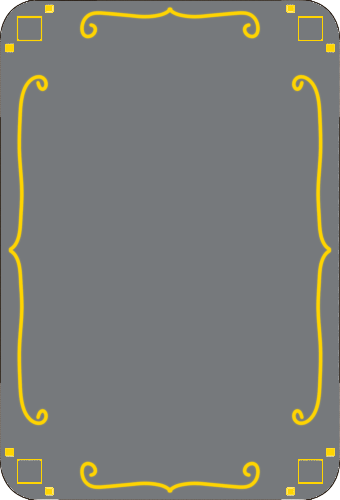
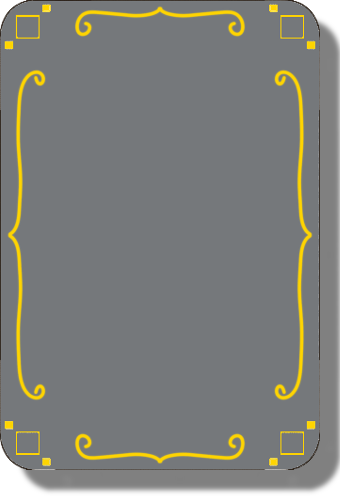
added card shadow

diff --git a/draw.js b/draw.js
@@ -22,21 +22,24 @@ function drawHeroes(){
         ctx.lineWidth = display.battleChooseCharacterBorderW;
         ctx.strokeStyle = display.battleChooseCharacterBorderCol;
         ctx.beginPath();
-        ctx.rect(display.heroXOffset + display.heroSpacing * i + display.cardW * i, y, display.cardW, display.cardH);
+        ctx.rect(display.heroXOffset + display.heroSpacing * i + display.cardW * i, y, display.battleCardBorderW, display.battleCardBorderH);
         ctx.stroke();
       }
       if(game.turnCharacterType == "hero"){
         ctx.lineWidth = display.battleCharacterTurnBorderW;
         ctx.strokeStyle = display.battleCharacterTurnBorderCol;
         ctx.beginPath();
-        ctx.rect(display.heroXOffset + display.heroSpacing * game.playerTurn + display.cardW * game.playerTurn, y, display.cardW, display.cardH);
+        ctx.rect(display.heroXOffset + display.heroSpacing * game.playerTurn + display.cardW * game.playerTurn,
+          y,
+          display.battleCardBorderW,
+          display.battleCardBorderH);
         ctx.stroke();
       }
       if(game.turnCharacterType == "hero" && heroes[i] != heroes[game.playerTurn] && game.selectedAction == "heal"){
         ctx.lineWidth = display.battleCharacterHealBorderW;
         ctx.strokeStyle = display.battleCharacterHealBorderCol;
         ctx.beginPath();
-        ctx.rect(display.heroXOffset + display.heroSpacing * i + display.cardW * i, y, display.cardW, display.cardH);
+        ctx.rect(display.heroXOffset + display.heroSpacing * i + display.cardW * i, y, display.battleCardBorderW, display.cardH);
         ctx.stroke();
       }
     }
@@ -98,14 +101,17 @@ function drawEnemies(){
       ctx.lineWidth = display.battleChooseCharacterBorderW;
       ctx.strokeStyle = display.battleChooseCharacterBorderCol;
       ctx.beginPath();
-      ctx.rect(x, y, display.cardW, display.cardH);
+      ctx.rect(x, y, display.battleCardBorderW, display.battleCardBorderH);
       ctx.stroke();
     }
     if(game.turnCharacterType == "enemy"){
       ctx.lineWidth = display.battleCharacterTurnBorderW;
       ctx.strokeStyle = display.battleCharacterTurnBorderCol;
       ctx.beginPath();
-      ctx.rect(display.heroXOffset + display.heroSpacing * game.enemyTurn + display.cardW * game.enemyTurn, y, display.cardW, display.cardH);
+      ctx.rect(display.heroXOffset + display.heroSpacing * game.enemyTurn + display.cardW * game.enemyTurn,
+      y,
+      display.battleCardBorderW,
+      display.battleCardBorderH);
       ctx.stroke();
     }
     //name
@@ -290,7 +296,7 @@ function drawActionButtons(hero){
   var y = display.ch - display.heroYOffset - display.cardH + display.battleActionButtonYOffset;
   for(var j = 0; j < display.battleActionButtonText.length; j++){
     ctx.fillStyle = display.battleActionButtonCol;
-    ctx.fillRect(x, y + display.battleActionButtonH * j, display.cardW, display.battleActionButtonH);
+    ctx.fillRect(x, y + display.battleActionButtonH * j, display.battleActionButtonW, display.battleActionButtonH);
     ctx.fillStyle = display.battleActionButtonTextCol;
     ctx.font = "" + display.battleActionButtonTextFontSize + "px " + display.font;
     ctx.fillText(display.battleActionButtonText[j],

diff --git a/display.js b/display.js
@@ -9,8 +9,8 @@ var display = {
 
   //cards
   cardImage: document.getElementById("card"),
-  cardW: 170,
-  cardH: 250,
+  cardW: 180,
+  cardH: 265,
 
   heroXOffset: 30,
   heroYOffset: 30,
@@ -157,6 +157,7 @@ var display = {
 
   //battle
   battleActionButtonCol: "Bisque",
+  battleActionButtonW: 170,
   battleActionButtonH: 30,
   battleActionButtonYOffset: 30,
   battleActionButtonTextCol: "black",
@@ -164,6 +165,9 @@ var display = {
   battleActionButtonTextXOffset: 10,
   battleActionButtonTextYOffset: 5,
   battleActionButtonText: ["Attack: -30", "Defend: -20", "Heal: -50", "Rest"],
+
+  battleCardBorderW: 170,
+  battleCardBorderH: 250,
 
   battleChooseCharacterBorderW: "10",
   battleChooseCharacterBorderCol: "red",
